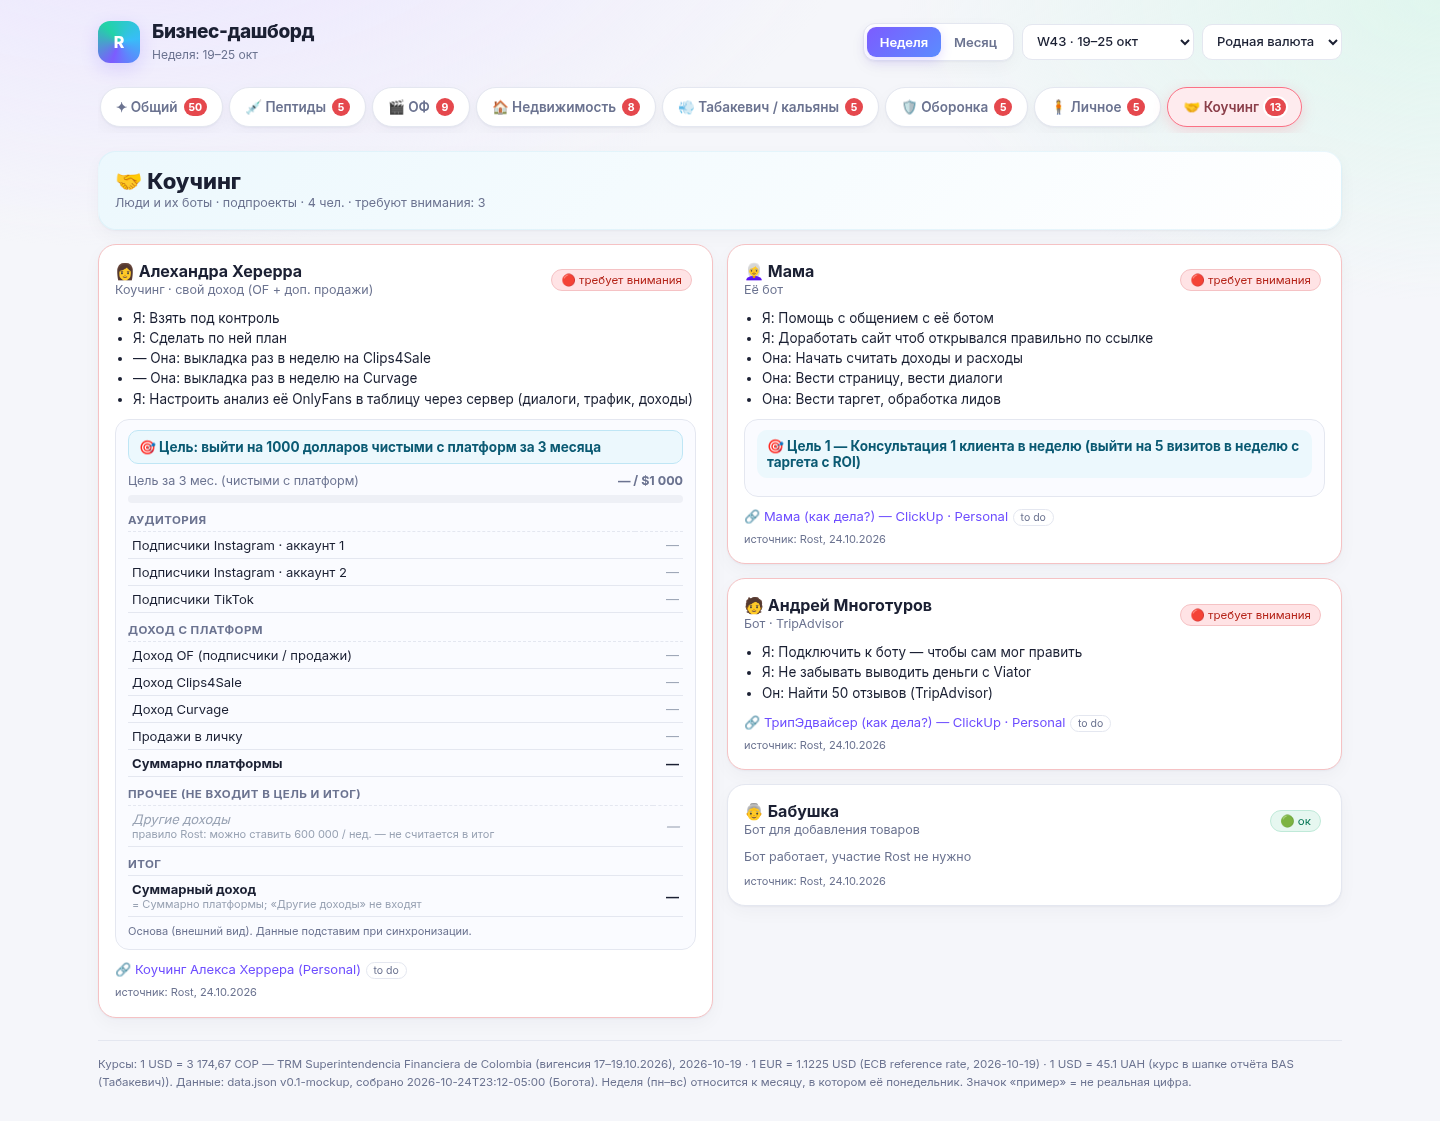
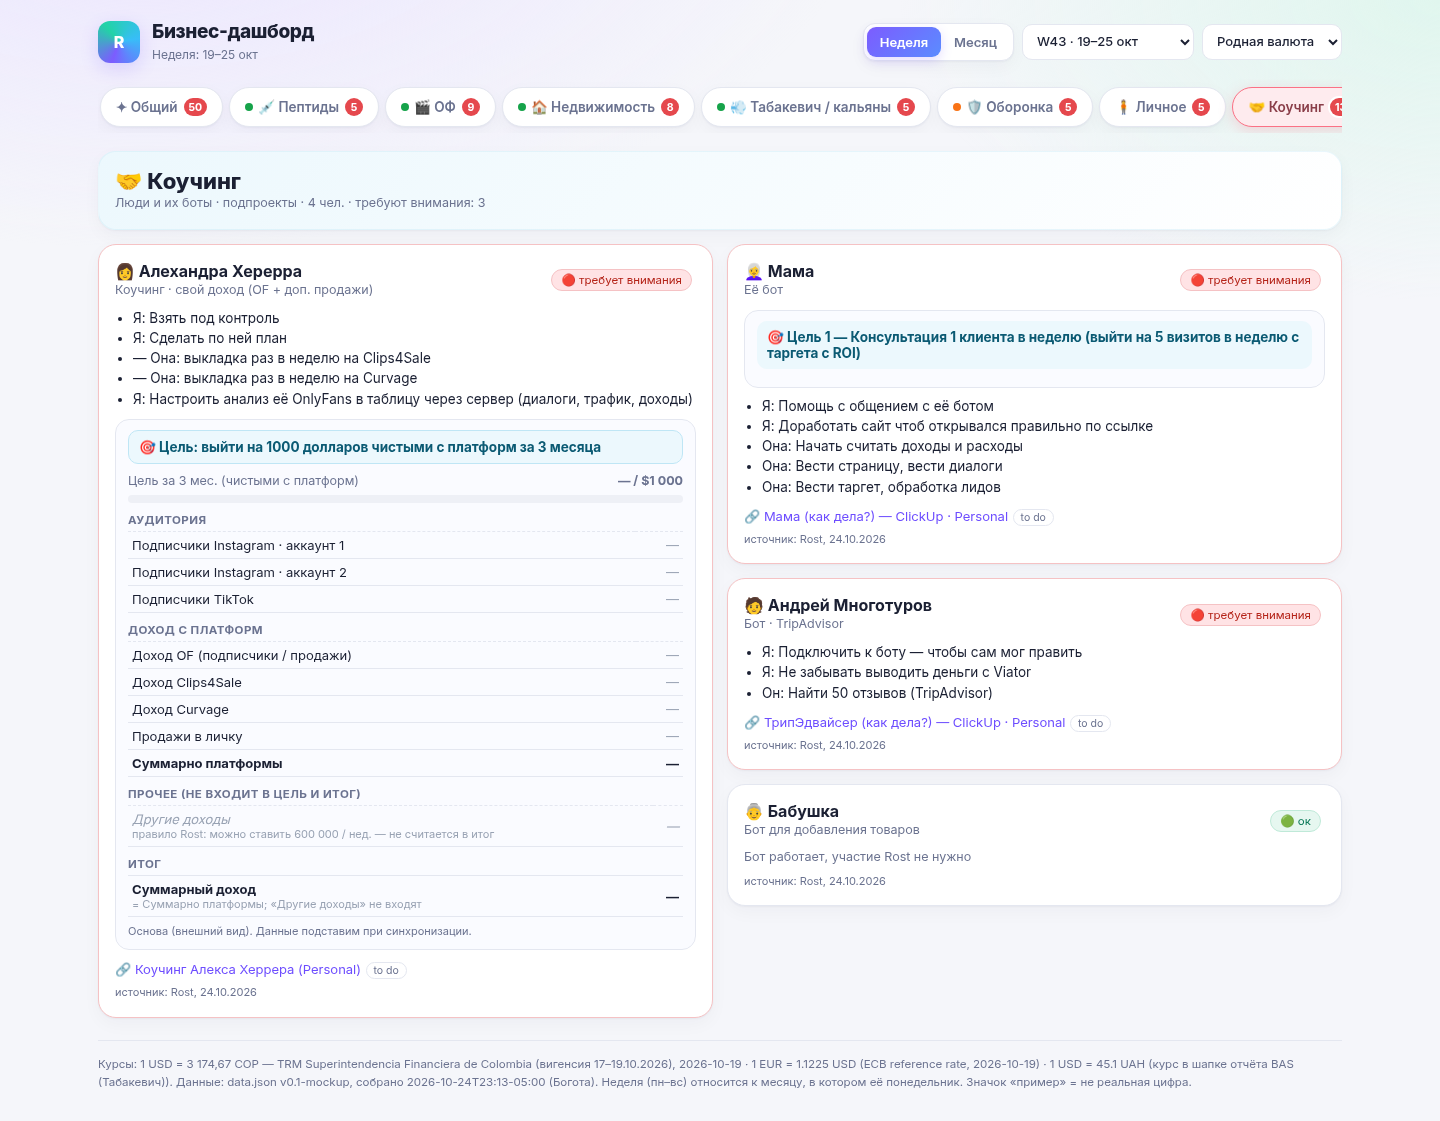
A: цветные точки стадий в верхнем меню вкладок

Changed region(s): [[0.5312, 0.281, 0.9062, 0.4371], [0.1875, 0.0624, 0.9375, 0.1249]]

diff --git a/variant-a.html b/variant-a.html
@@ -60,6 +60,7 @@ table{width:100%;border-collapse:collapse;font-size:12.5px}th,td{text-align:left
 footer{margin-top:22px;color:var(--mut);font-size:11.5px;line-height:1.6;border-top:1px solid var(--line);padding-top:14px}
 .chartbox{position:relative;height:280px}@media(max-width:520px){.chartbox{height:220px}}
 .empty{color:var(--mut);font-size:13px;padding:10px 0}
+.sdot.tdot{width:8px;height:8px;margin:0 5px 1px 0;vertical-align:middle;box-shadow:0 0 0 2px #fff}
 </style></head><body><div class="wrap">
 <header><div class="brand"><div class="logo">R</div><div><h1>Бизнес-дашборд</h1><small id="sub"></small></div></div>
 <div class="ctrls"><div class="seg" id="mode"><button data-m="week">Неделя</button><button data-m="month">Месяц</button></div>
@@ -206,7 +207,7 @@ function spark(el,data,color){if(!el)return;const c=new Chart(el,{type:'line',da
 function controls(){document.querySelectorAll('#mode button').forEach(b=>{b.classList.toggle('on',b.dataset.m===S.mode);b.onclick=()=>{S.mode=b.dataset.m;render()}});
  const sel=$('#period');sel.innerHTML=Dash.periods().map(p=>`<option value="${p.id}">${S.mode==='week'?(p.iso+' · '):''}${esc(p.label)}</option>`).join('');sel.value=Dash.pid();
  sel.onchange=()=>{S.mode==='week'?S.week=sel.value:S.month=sel.value;render()};$('#cur').value=S.cur;$('#cur').onchange=e=>{S.cur=e.target.value;render()};
- const D=Dash.D;$('#tabs').innerHTML=[{id:'overview',name:'Общий',icon:'✦',color:'#7c5cff'},...D.directions].map(d=>{const n=d.id==='overview'?attnAll().n:attn(d).length;return `<button data-t="${d.id}" style="--c:${d.color}" class="${S.tab===d.id?'on':''}" title="${n?'Требует внимания: '+n:''}">${d.icon} ${esc(d.name)}${n?`<span class="abadge">${n}</span>`:''}</button>`}).join('');
+ const D=Dash.D;$('#tabs').innerHTML=[{id:'overview',name:'Общий',icon:'✦',color:'#7c5cff'},...D.directions].map(d=>{const n=d.id==='overview'?attnAll().n:attn(d).length;return `<button data-t="${d.id}" style="--c:${d.color}" class="${S.tab===d.id?'on':''}" title="${n?'Требует внимания: '+n:''}">${d.stage?`<span class="sdot tdot ${d.stage}" title="${STAGE_T[d.stage]||''}"></span>`:''}${d.icon} ${esc(d.name)}${n?`<span class="abadge">${n}</span>`:''}</button>`}).join('');
  document.querySelectorAll('#tabs button').forEach(b=>b.onclick=()=>{S.tab=b.dataset.t;render();scrollTo({top:0,behavior:'smooth'})});
  $('#sub').textContent=`${S.mode==='week'?'Неделя':'Месяц'}: ${Dash.periodLabel()}`;}
 function tasksHTML(ts){if(!ts.length)return '<div class="empty">Нет задач</div>';return ts.map(t=>`<div class="task"><span class="pill p-${t.priority||'normal'}">${Dash.PRI[t.priority]||t.priority||''}</span><div style="flex:1"><a href="${t.url}" target="_blank" rel="noopener">${esc(t.name)}</a><div style="margin-top:4px"><span class="st">${esc(t.status)}</span> <span class="st">до ${esc(t.due||'—')}</span></div></div></div>`).join('')}
